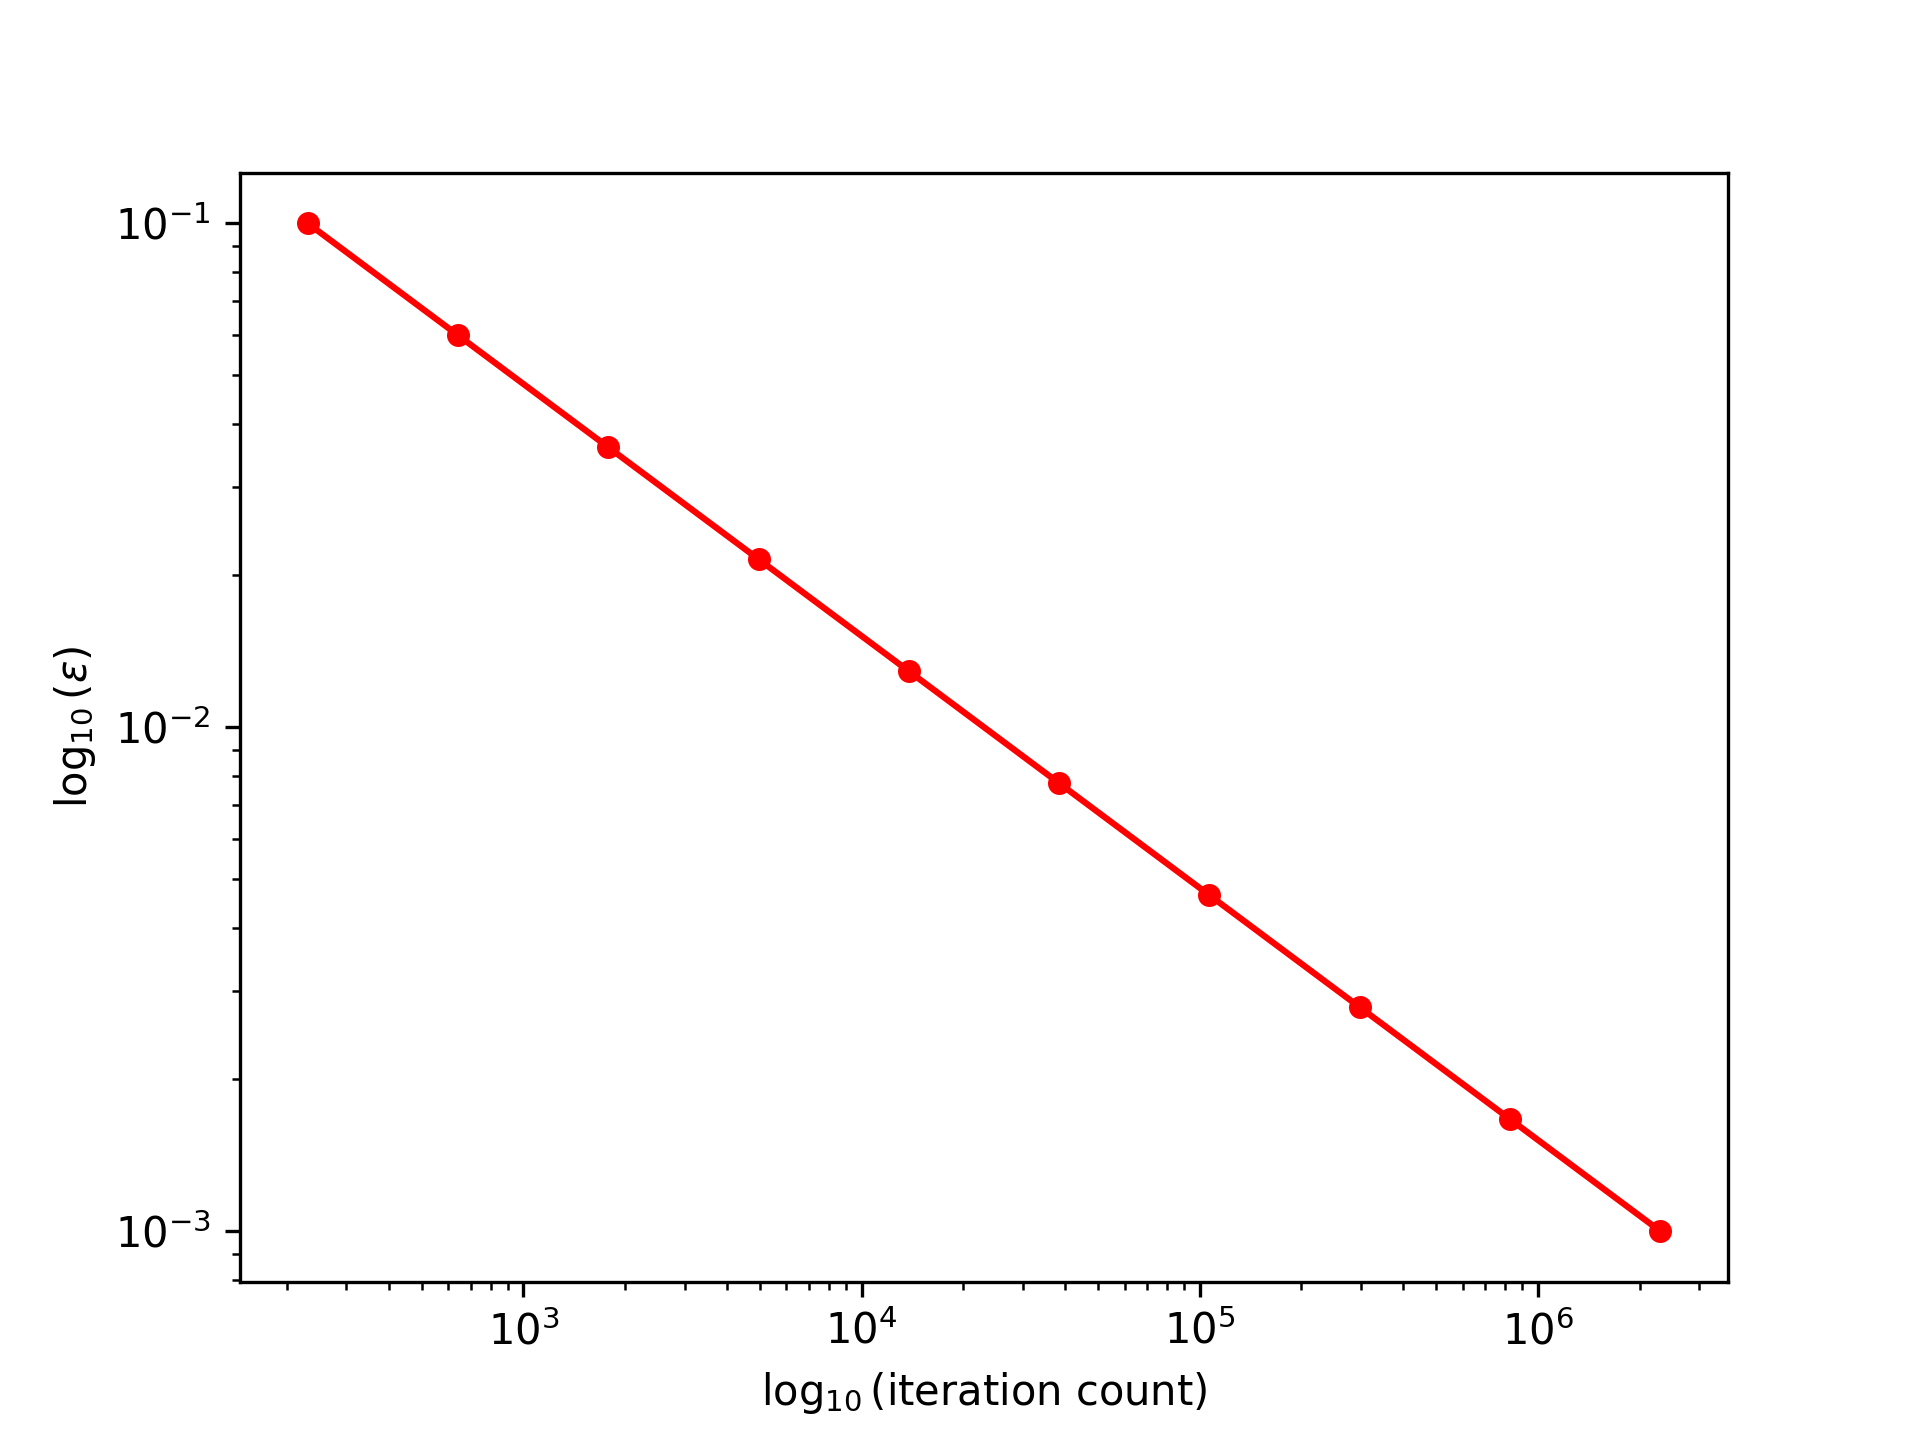
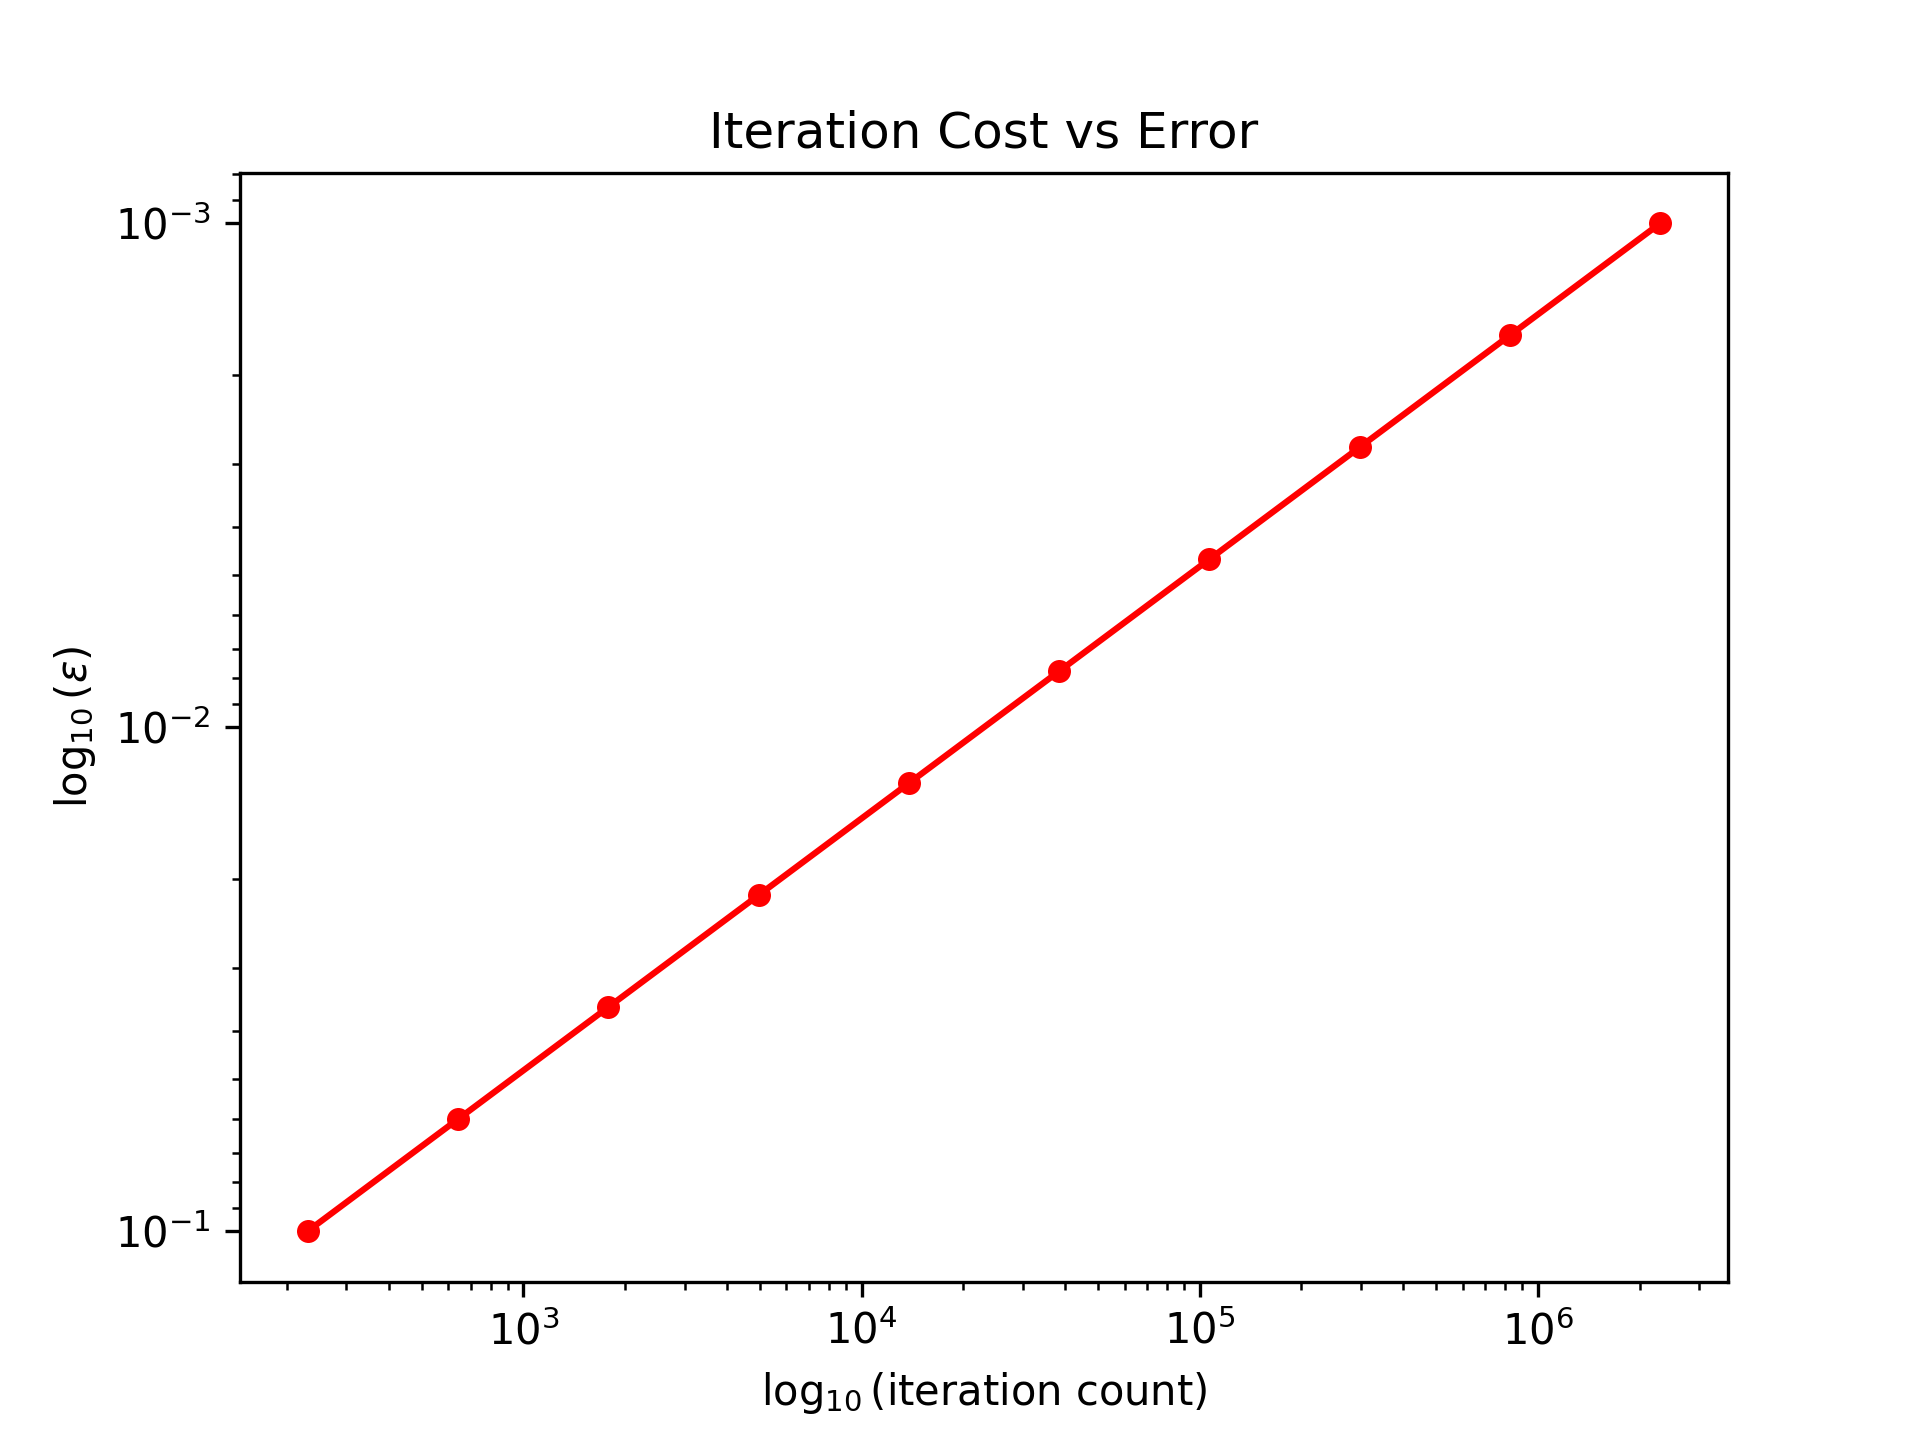
iteration count

diff --git a/ising/benchmark/iter_eps.py b/ising/benchmark/iter_eps.py
@@ -36,10 +36,12 @@ def plot_iteration_err(start_err_exp, end_err_exp, point_count, obs_norm, delta)
     sns.lineplot(x=result, y=error_points, ax=ax, color="red")
     sns.scatterplot(x=result, y=error_points, ax=ax, color="red")
 
+    ax.invert_yaxis()
     ax.set_xscale("log")
     ax.set_yscale("log")
     ax.set_ylabel(r"$\log_{10}(\epsilon)$")
     ax.set_xlabel(r"$\log_{10}(\text{iteration count})$")
+    ax.set_title("Iteration Cost vs Error")
 
     diagram_name = "plots/benchmark/iteration_count.png"
     print(f"Saving diagram at:{diagram_name}")
